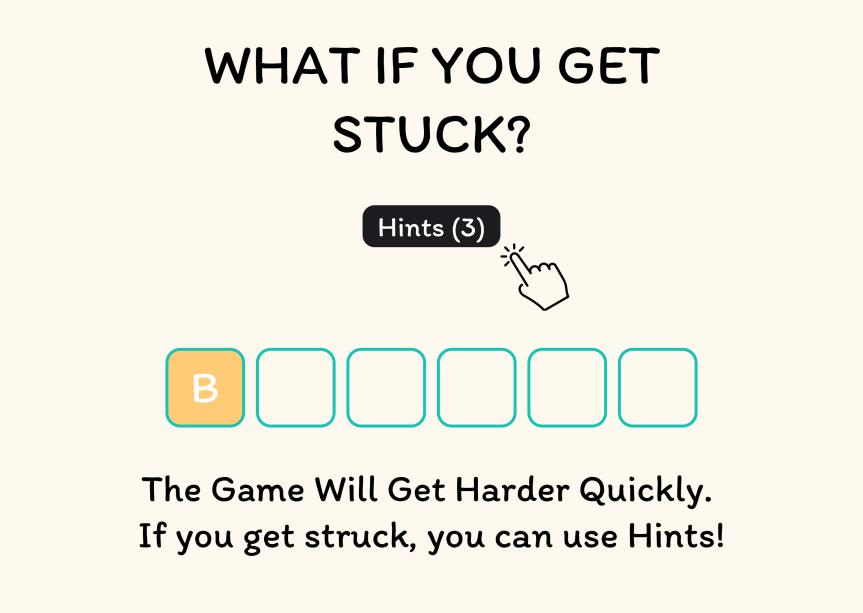
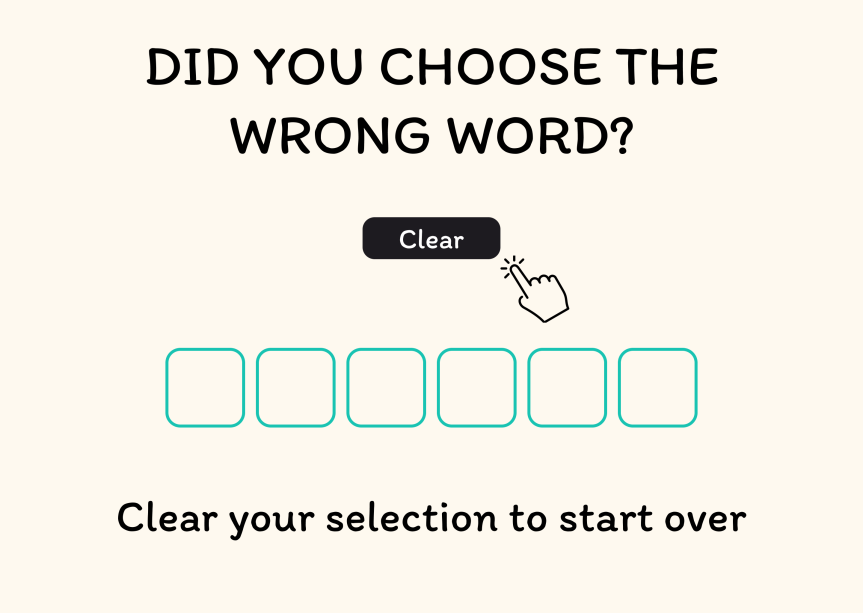
commit Add helppage and fix level
- Add helppage mode select
- Fix Level in success page

diff --git a/src/App.vue b/src/App.vue
@@ -16,6 +16,7 @@ import helppage1 from './assets/images/helppage1.webp';
 import helppage2 from './assets/images/helppage2.webp';
 import helppage3 from './assets/images/helppage3.webp';
 import helppage4 from './assets/images/helppage4.webp';
+import helppage5 from './assets/images/helppage5.webp';
 import nextlefticon from './assets/icons/nextlefticon.png';
 import nextrighticon from './assets/icons/nextrighticon.png';
 import cancelicon from './assets/icons/cancel.png';
@@ -41,7 +42,7 @@ const selectedWord = ref([]);
 const selectedAnswer = computed(() => {
   const mapped = selectedWord.value.map((ans) => ({
     ...ans,
-    letter: ans.reserved ? ans.letter : "",
+    letter: ans.reserved ? ans.letter : ''
   }));
 
   const fixedElements = mapped.filter((ans) => ans.useHint);
@@ -68,9 +69,9 @@ const selectedAnswer = computed(() => {
 const correctAnswer = ref([]);
 const boxAnswerLength = ref(0);
 
-const hints = ref(localStorage.getItem("hints") || 3);
-const answerHistory = JSON.parse(localStorage.getItem("answerHistory")) || {};
-const onMode = ref("");
+const hints = ref(localStorage.getItem('hints') || 3);
+const answerHistory = JSON.parse(localStorage.getItem('answerHistory')) || {};
+const onMode = ref('');
 
 // Audio
 const isVolumeVisible = ref(false);
@@ -89,7 +90,7 @@ const success = ref(Number(localStorage.getItem('userSuccess')) ?? 0);
 const maxLevels = {
   easy: 35,
   medium: 35,
-  hard: 30,
+  hard: 30
 };
 
 const queueManager = new QueueManager('wordQueue', Questions, maxLevels);
@@ -132,7 +133,7 @@ const nextLevel = () => {
     (word) => word.id === queueManager.getNext(onMode.value)?.id
   );
 
-  const answerHistory = JSON.parse(localStorage.getItem("answerHistory"));
+  const answerHistory = JSON.parse(localStorage.getItem('answerHistory'));
   const currentWordId = queueManager.getNext(onMode.value)?.id;
 
   if (
@@ -142,20 +143,20 @@ const nextLevel = () => {
     selectedWord.value = answerHistory[currentWordId];
   } else {
     selectedWord.value = question.word
-      .split("")
+      .split('')
       .map((letter, index) => ({ letter, pos: index }))
       .shuffle();
   }
 
   boxAnswerLength.value = selectedWord.value.length;
-  correctAnswer.value = question.correctAnswer.split("");
+  correctAnswer.value = question.correctAnswer.split('');
 };
 
 const playOnMode = (mode) => {
   onMode.value = mode;
   filteredWordCollection.value = Questions.filterBy(
-    "difficulty",
-    mode,
+    'difficulty',
+    mode
   ).shuffle();
   nextLevel();
 };
@@ -163,23 +164,23 @@ const playOnMode = (mode) => {
 const findIndexOfFirstEmpty = (arr, key) => arr.findIndex((e) => !e[key]);
 
 const saveAnswerHistory = () => {
-  answerHistory[queueManager.getNext(onMode.value).id] = selectedWord.value;
-  saveToLocalStorage("answerHistory", answerHistory);
+  if (selectedWord.value.useHint) {
+    answerHistory[queueManager.getNext(onMode.value).id] = selectedWord.value;
+    saveToLocalStorage('answerHistory', answerHistory);
+  }
 };
 
 const selectLetter = (index) => {
   if (filledBoxLength.value < selectedAnswer.value.length) {
     const indexOfFirstEmpty = findIndexOfFirstEmpty(
       selectedAnswer.value,
-      "letter",
+      'letter'
     );
 
     Object.assign(selectedWord.value[index], {
       reserved: true,
-      order: indexOfFirstEmpty,
+      order: indexOfFirstEmpty
     });
-
-    saveAnswerHistory();
 
     playSelectLetterSound();
   }
@@ -188,7 +189,7 @@ const selectLetter = (index) => {
 const checkAnswer = () => {
   const flattenedSelectedAnswer = selectedAnswer.value.flat();
   const isCorrect = correctAnswer.value.every(
-    (char, index) => char === flattenedSelectedAnswer[index].letter,
+    (char, index) => char === flattenedSelectedAnswer[index].letter
   );
 
   if (isCorrect) {
@@ -199,17 +200,18 @@ const checkAnswer = () => {
       successAudio.pause();
       successAudio.currentTime = 0;
       successPage();
+      if (level[onMode.value] <= maxLevels[onMode.value]) {
+        level[onMode.value] += 1;
+        success.value += queueManager.isFirstRoundCompleted(onMode.value)
+          ? 0
+          : 1;
+      }
     }, 1900);
     setTimeout(() => {
-      localStorage.removeItem("answerHistory");
+      localStorage.removeItem('answerHistory');
       nextLevel();
       selectedAnswerStatus.value = '';
     }, 3000);
-
-    if (level[onMode.value] <= maxLevels[onMode.value]) {
-      level[onMode.value] += 1;
-      success.value += queueManager.isFirstRoundCompleted(onMode.value) ? 0 : 1;
-    }
 
     queueManager.dequeue(onMode.value);
     saveToLocalStorage('level', level);
@@ -220,7 +222,7 @@ const checkAnswer = () => {
     setTimeout(() => {
       clearSelectAnswer();
       selectedAnswerStatus.value = '';
-      localStorage.removeItem("answerHistory");
+      localStorage.removeItem('answerHistory');
     }, 1900);
   }
 };
@@ -249,7 +251,7 @@ const splitWords = computed(() => {
 });
 
 const filledBoxLength = computed(
-  () => selectedAnswer.value.filter((l) => /^[a-zA-Z]+$/.test(l.letter)).length,
+  () => selectedAnswer.value.filter((l) => /^[a-zA-Z]+$/.test(l.letter)).length
 );
 
 const applyHint = () => {
@@ -258,13 +260,13 @@ const applyHint = () => {
       .map((ans, i) => (!ans.useHint ? i : -1))
       .filter((i) => i !== -1);
     const randomOfAvailable = Math.floor(
-      Math.random() * availableIndexes.length,
+      Math.random() * availableIndexes.length
     );
     const randomIndex = availableIndexes[randomOfAvailable];
 
     Object.assign(selectedWord.value[randomIndex], {
       reserved: true,
-      useHint: true,
+      useHint: true
     });
 
     saveAnswerHistory();
@@ -279,19 +281,19 @@ watch(
     if (filledBoxLength.value >= correctAnswer.value.length) {
       checkAnswer();
     }
-  },
+  }
 );
 
 watch(
   () => hints.value,
   () => {
-    saveToLocalStorage("hints", hints.value);
-  },
+    saveToLocalStorage('hints', hints.value);
+  }
 );
 
 const showHelpModal = ref(false);
 const currentPage = ref(0);
-const helpPages = [helppage1, helppage2, helppage3, helppage4];
+const helpPages = [helppage1, helppage2, helppage3, helppage4, helppage5];
 
 const openHelpModal = () => {
   currentPage.value = 0;
@@ -588,7 +590,7 @@ const titlegames = ['c', 'l', 'i', 'c', 'k', ' ', ' ', 'w', 'o', 'r', 'd'];
               'w-20',
               'h-20',
               'hover:bg-[#09897c]',
-              item.reserved ? 'bg-[#09897c]' : 'bg-[#19C3B2]',
+              item.reserved ? 'bg-[#09897c]' : 'bg-[#19C3B2]'
             ]"
           >
             {{ item.letter.toUpperCase() }}
